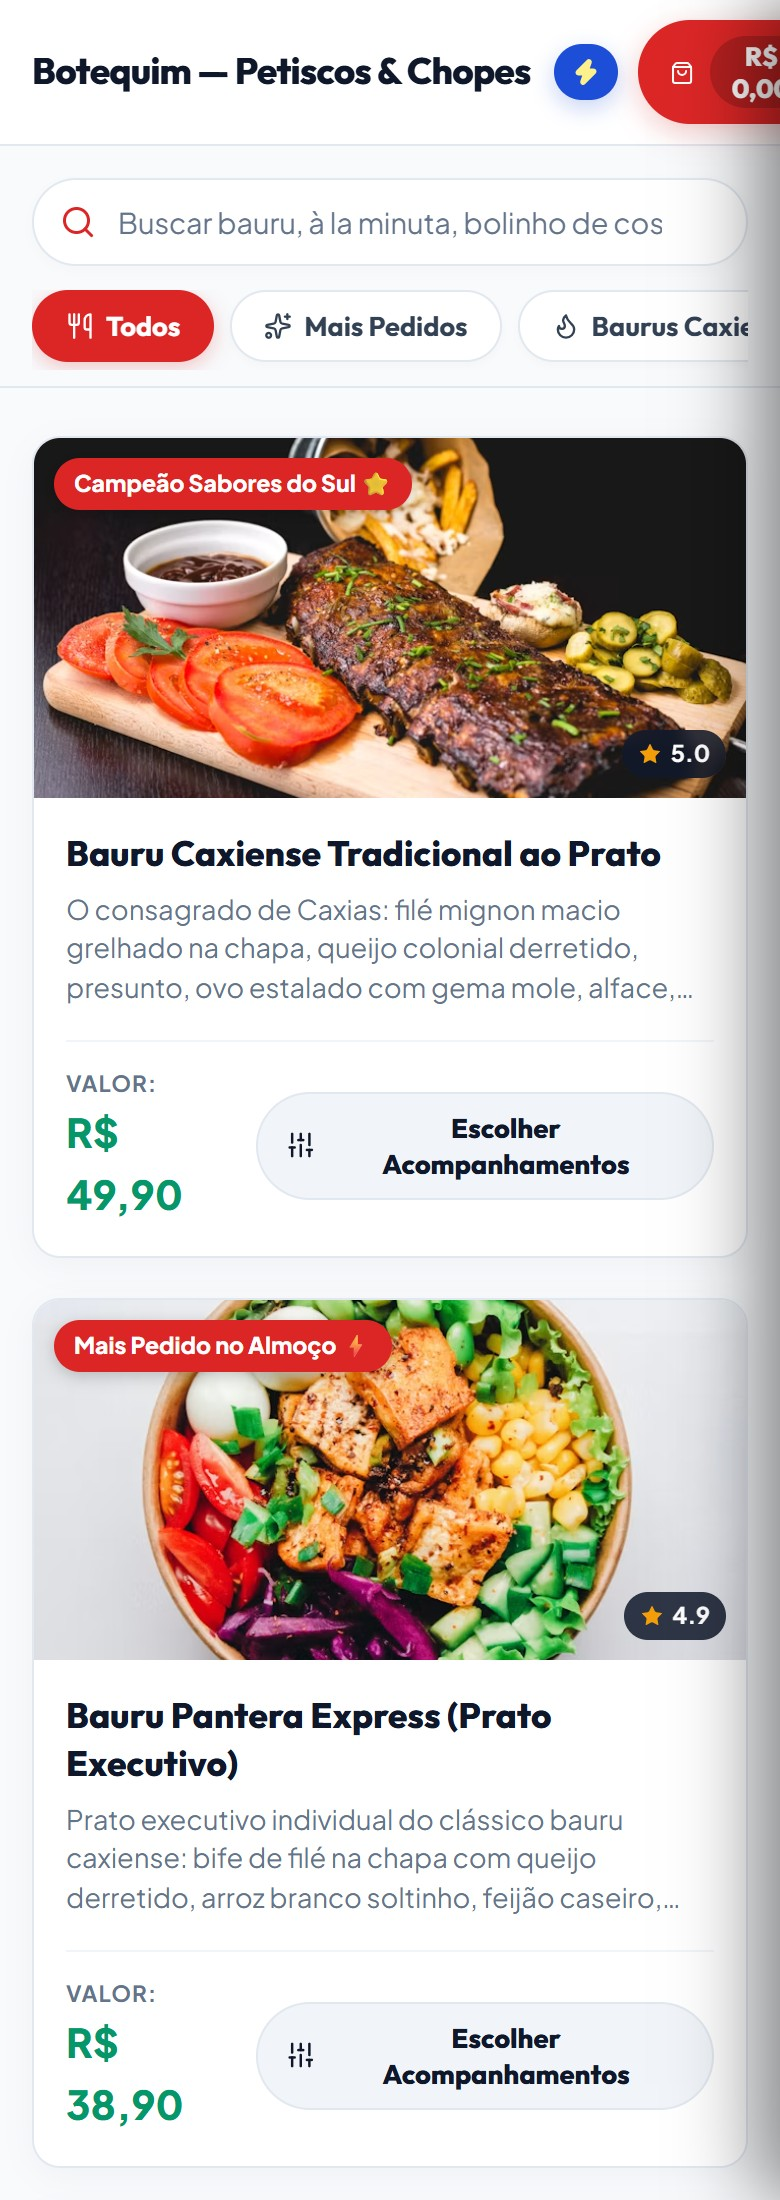
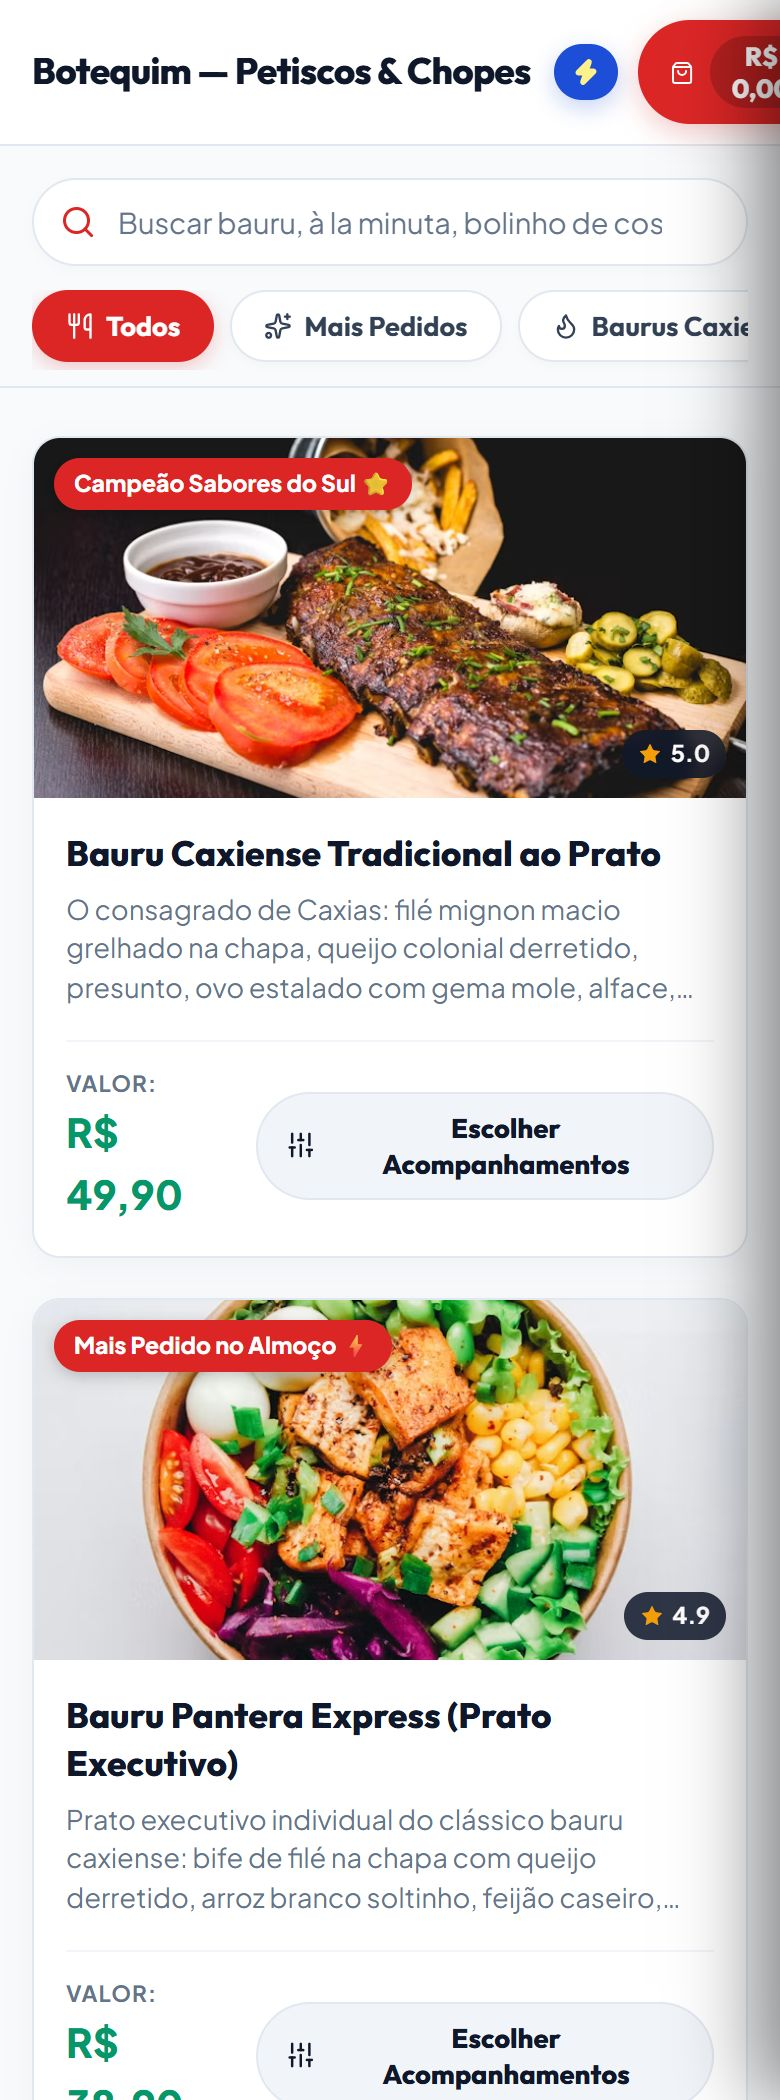
feat(onira-fly): otimizacao leve de capturas mobile e ampliacao fluida dos smartphones sem cortes de UI

diff --git a/style.css b/style.css
@@ -472,9 +472,9 @@ img, svg {
 
 .hero-layout {
     display: grid;
-    grid-template-columns: 1.12fr 0.88fr;
+    grid-template-columns: 1.05fr 0.95fr;
     align-items: center;
-    gap: 48px;
+    gap: 40px;
     position: relative;
     z-index: 2;
     padding-bottom: 40px;
@@ -631,7 +631,7 @@ img, svg {
 
 .phone-frame-mockup {
     width: 100%;
-    max-width: 340px;
+    max-width: 380px;
     position: relative;
 }
 
@@ -691,7 +691,7 @@ img, svg {
 }
 
 .phone-screen-viewport {
-    height: 610px;
+    height: 660px;
     border-radius: 28px;
     overflow: hidden;
     background: #F8F9FA;
@@ -756,8 +756,10 @@ img, svg {
     gap: 6px;
     overflow-x: auto;
     max-width: 100%;
-    padding: 2px 4px 6px;
+    padding: 2px 2px 6px;
     scrollbar-width: none;
+    justify-content: flex-start;
+    -webkit-overflow-scrolling: touch;
 }
 
 .hero-niche-tabs::-webkit-scrollbar {
@@ -768,13 +770,14 @@ img, svg {
     background: rgba(255, 255, 255, 0.06);
     border: 1px solid rgba(255, 255, 255, 0.15);
     color: #D1D5DB;
-    border-radius: 14px;
-    padding: 5px 10px;
-    font-size: 0.75rem;
+    border-radius: 12px;
+    padding: 4px 8px;
+    font-size: 0.71875rem;
     font-weight: 600;
     cursor: pointer;
     white-space: nowrap;
     transition: all 0.2s ease;
+    flex-shrink: 0;
 }
 
 .hero-niche-pill:hover {
@@ -908,8 +911,8 @@ img, svg {
 }
 
 .product-thumb-wrap {
-    width: 62px;
-    height: 62px;
+    width: 68px;
+    height: 68px;
     border-radius: 10px;
     overflow: hidden;
     background: #F3F4F6;
@@ -940,20 +943,21 @@ img, svg {
 }
 
 .product-card-title {
-    font-size: 0.78125rem;
+    font-size: 0.8125rem;
     font-weight: 700;
     color: #111827;
-    margin: 0;
-    line-height: 1.2;
-    white-space: nowrap;
+    margin: 0 0 2px;
+    line-height: 1.25;
+    display: -webkit-box;
+    -webkit-line-clamp: 2;
+    -webkit-box-orient: vertical;
     overflow: hidden;
-    text-overflow: ellipsis;
 }
 
 .product-card-desc {
-    font-size: 0.65625rem;
+    font-size: 0.6875rem;
     color: #6B7280;
-    line-height: 1.25;
+    line-height: 1.3;
     margin: 2px 0 6px;
     display: -webkit-box;
     -webkit-line-clamp: 2;
@@ -965,11 +969,12 @@ img, svg {
     display: flex;
     justify-content: space-between;
     align-items: center;
+    gap: 8px;
 }
 
 .product-card-price {
     font-family: var(--font-heading);
-    font-size: 0.8125rem;
+    font-size: 0.875rem;
     font-weight: 800;
     color: #111827;
 }
@@ -979,14 +984,16 @@ img, svg {
     color: #FFFFFF;
     border: none;
     border-radius: 8px;
-    padding: 4px 10px;
-    font-size: 0.6875rem;
+    padding: 5px 12px;
+    font-size: 0.71875rem;
     font-weight: 700;
     cursor: pointer;
     transition: all 0.15s ease;
     display: inline-flex;
     align-items: center;
     gap: 4px;
+    flex-shrink: 0;
+    white-space: nowrap;
 }
 
 .btn-card-add:hover {
@@ -1775,12 +1782,13 @@ img, svg {
 }
 
 .phone-frame-showcase {
-    max-width: 330px;
+    width: 100%;
+    max-width: 380px;
     margin: 0 auto;
 }
 
 .phone-screenshot-viewport {
-    height: 610px;
+    height: 660px;
     border-radius: 26px;
     overflow-y: auto;
     overflow-x: hidden;
@@ -2659,17 +2667,38 @@ img, svg {
         gap: 12px;
         text-align: center;
     }
-}
 
-/* SMALL PHONES (<= 480px) */
-@media (max-width: 480px) {
-    .phone-frame-mockup {
-        max-width: 295px;
+    .hero-layout,
+    .showroom-layout {
+        grid-template-columns: 1fr;
+        gap: 36px;
+    }
+
+    .hero-niche-tabs {
+        justify-content: flex-start;
+    }
+
+    .phone-frame-mockup,
+    .phone-frame-showcase {
+        max-width: 360px;
     }
 
     .phone-screen-viewport,
     .phone-screenshot-viewport {
-        height: 500px;
+        height: 600px;
+    }
+}
+
+/* SMALL PHONES (<= 480px) */
+@media (max-width: 480px) {
+    .phone-frame-mockup,
+    .phone-frame-showcase {
+        max-width: 330px;
+    }
+
+    .phone-screen-viewport,
+    .phone-screenshot-viewport {
+        height: 550px;
     }
 
     .section-title {

diff --git a/app.js b/app.js
@@ -14,8 +14,7 @@ const SHOWCASE_CASES = {
         savings: "R$ 4.820",
         speed: "32s",
         ticket: "R$ 85,00",
-        screenshotMobile: "assets/screenshots/montecristo_mobile.jpg",
-        screenshotDesktop: "assets/screenshots/montecristo_desktop.jpg"
+        screenshotMobile: "assets/screenshots/montecristo_mobile.jpg"
     },
     baitakao: {
         title: "Hamburgueria & Lanches da Serra",
@@ -26,8 +25,7 @@ const SHOWCASE_CASES = {
         savings: "R$ 6.380",
         speed: "28s",
         ticket: "R$ 68,00",
-        screenshotMobile: "assets/screenshots/baitakao_mobile.jpg",
-        screenshotDesktop: "assets/screenshots/baitakao_desktop.jpg"
+        screenshotMobile: "assets/screenshots/baitakao_mobile.jpg"
     },
     panazzolo: {
         title: "Casa do Pastel & Forneria",
@@ -38,8 +36,7 @@ const SHOWCASE_CASES = {
         savings: "R$ 5.120",
         speed: "35s",
         ticket: "R$ 72,00",
-        screenshotMobile: "assets/screenshots/panazzolo_mobile.jpg",
-        screenshotDesktop: "assets/screenshots/panazzolo_desktop.jpg"
+        screenshotMobile: "assets/screenshots/panazzolo_mobile.jpg"
     },
     fafa: {
         title: "Ateliê de Doces & Contemporâneo",
@@ -50,8 +47,7 @@ const SHOWCASE_CASES = {
         savings: "R$ 4.250",
         speed: "40s",
         ticket: "R$ 94,00",
-        screenshotMobile: "assets/screenshots/fafa_mobile.jpg",
-        screenshotDesktop: "assets/screenshots/fafa_desktop.jpg"
+        screenshotMobile: "assets/screenshots/fafa_mobile.jpg"
     },
     claem: {
         title: "Pastelaria & Pâtisserie Artesanal",
@@ -62,8 +58,7 @@ const SHOWCASE_CASES = {
         savings: "R$ 4.960",
         speed: "25s",
         ticket: "R$ 58,00",
-        screenshotMobile: "assets/screenshots/claem_mobile.jpg",
-        screenshotDesktop: "assets/screenshots/claem_desktop.jpg"
+        screenshotMobile: "assets/screenshots/claem_mobile.jpg"
     }
 };
 
@@ -136,7 +131,6 @@ function renderCase(caseKey) {
 
     // Atualiza Imagens dos Screenshots
     const imgMobile = document.getElementById('img-case-mobile');
-    const imgDesktop = document.getElementById('img-case-desktop');
 
     if (imgMobile) {
         imgMobile.src = data.screenshotMobile;
